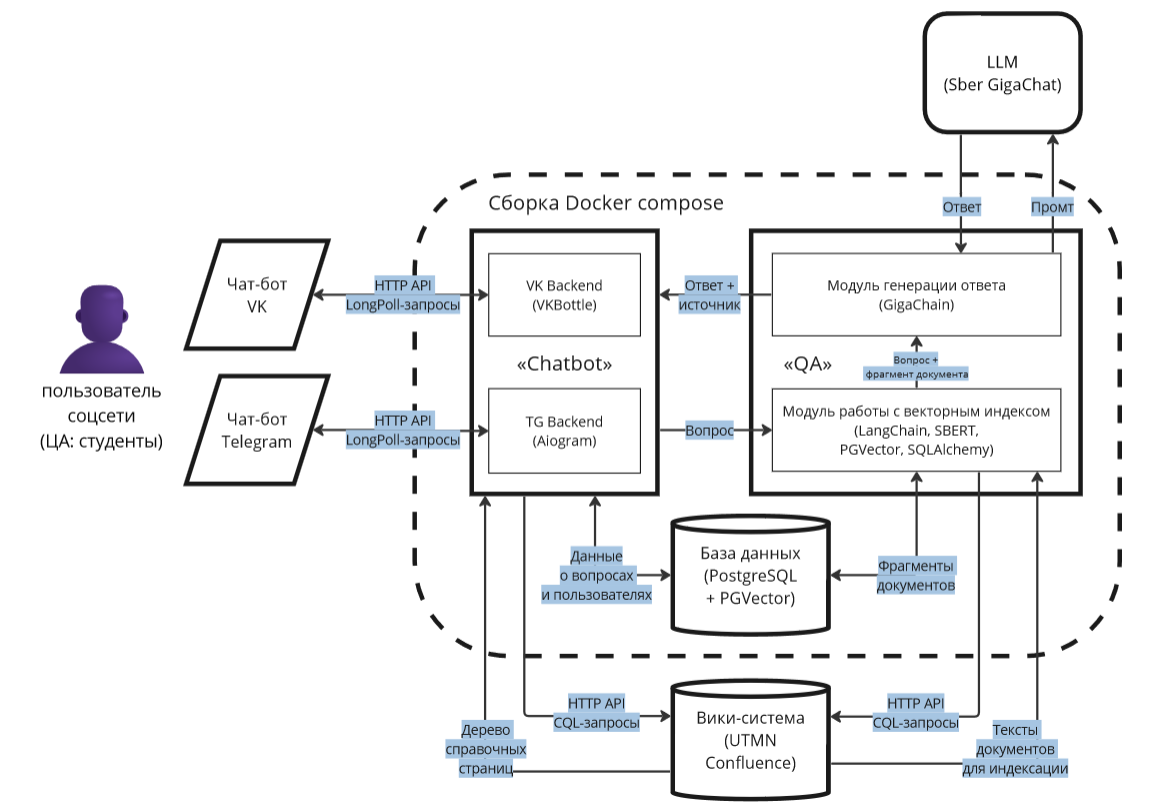
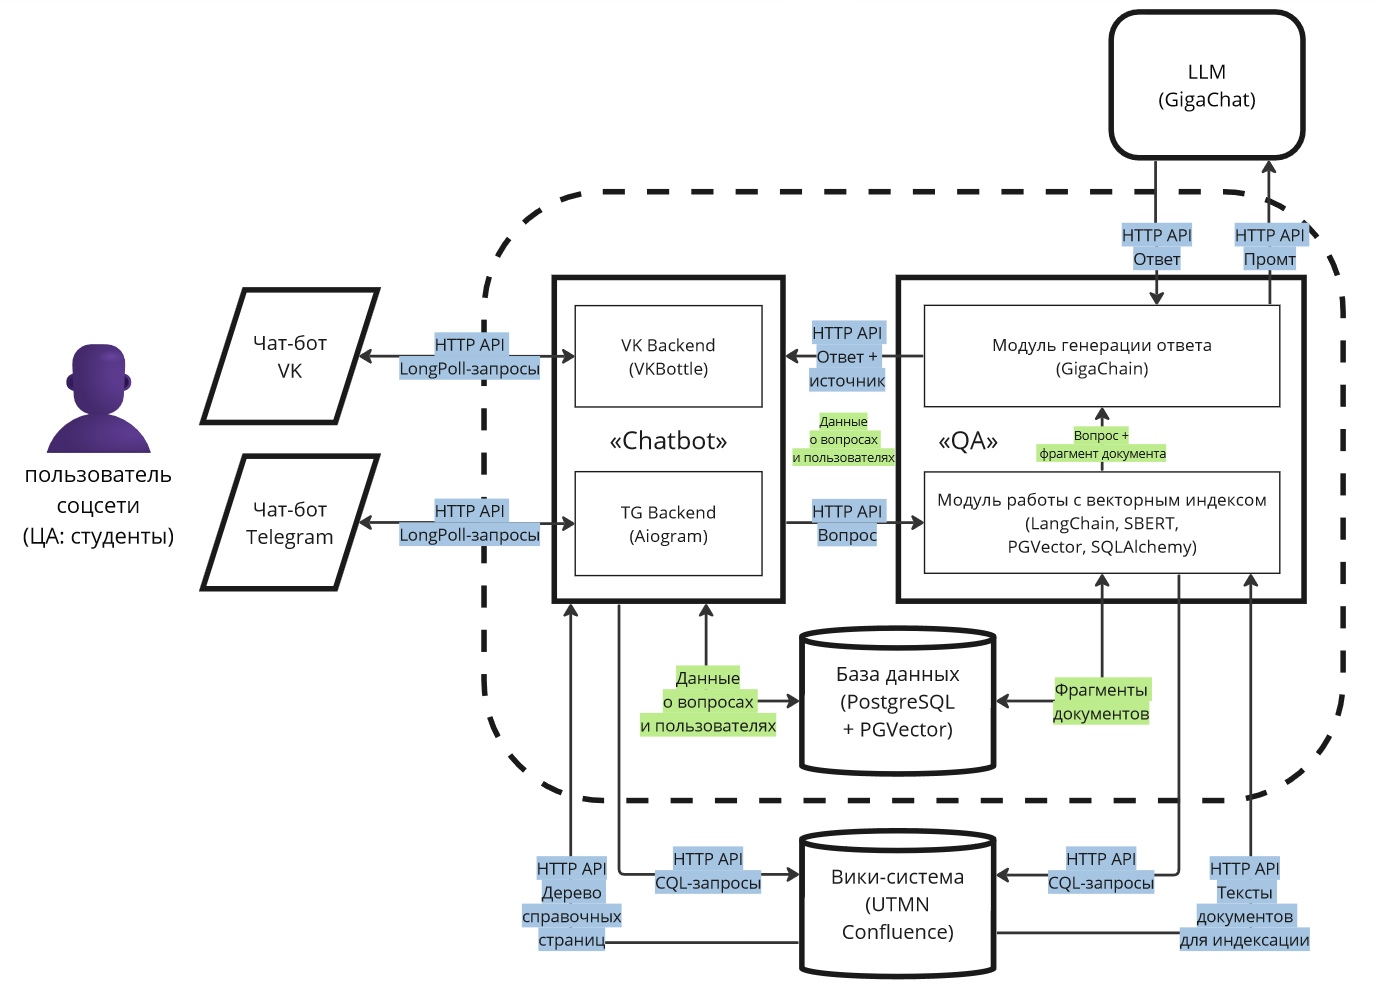
fix figure

Changed region(s): [[0.0, 0.0, 0.9863, 1.0], [0.339, 0.6799, 0.3699, 0.7417]]

diff --git a/docs/README.md b/docs/README.md
@@ -11,7 +11,7 @@
 ![Рис. 1. Архитектура приложения](images/architecture.png)
 *Рис. 1.* Архитектура приложения
 
-Архитектура приложения (рис. 1) состоит из трёх составляющих: [микросервис работы с LongPoll API чат-ботов VK и Telegram (Chatbot)](chatbot.md), [микросервис ответа на вопрос по документам (QA)](qa.md), база данных. Каждая составляющая вынесена в отдельный Docker-контейнер. Администраторская панель находится в разработке. 
+Архитектура приложения (рис. 1) состоит из трёх составляющих: [микросервис работы с LongPoll API чат-ботов VK и Telegram (Chatbot)](chatbot.md), [микросервис ответа на вопрос по документам (QA)](qa.md), база данных. Каждая составляющая вынесена в отдельный Docker-контейнер. 
 
 Chatbot взаимодействует с API [вики-системы «Confluence»](confluence-integration.md) для получения справочной информации и LongPoll API VK и Telegram. QA взаимодействует с API вики-системы «Confluence» для получения документов при формировании векторного хранилища документов и API большой языковой модели сервиса «GigaChat» от Сбера для генерации ответов.
 
